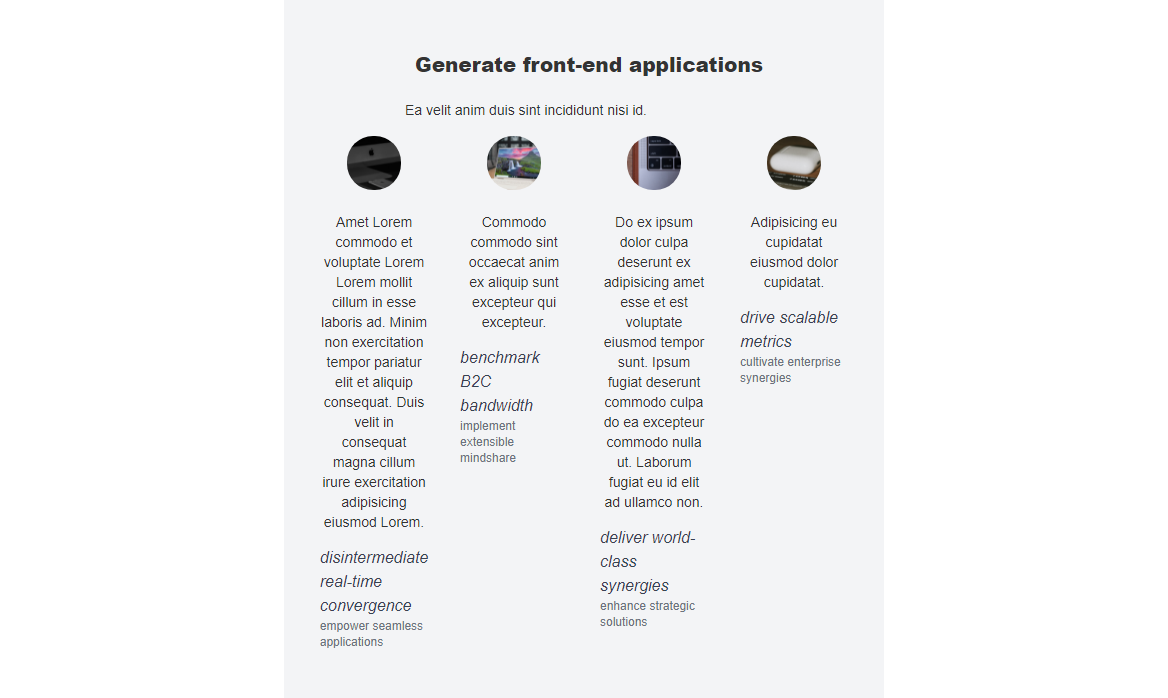
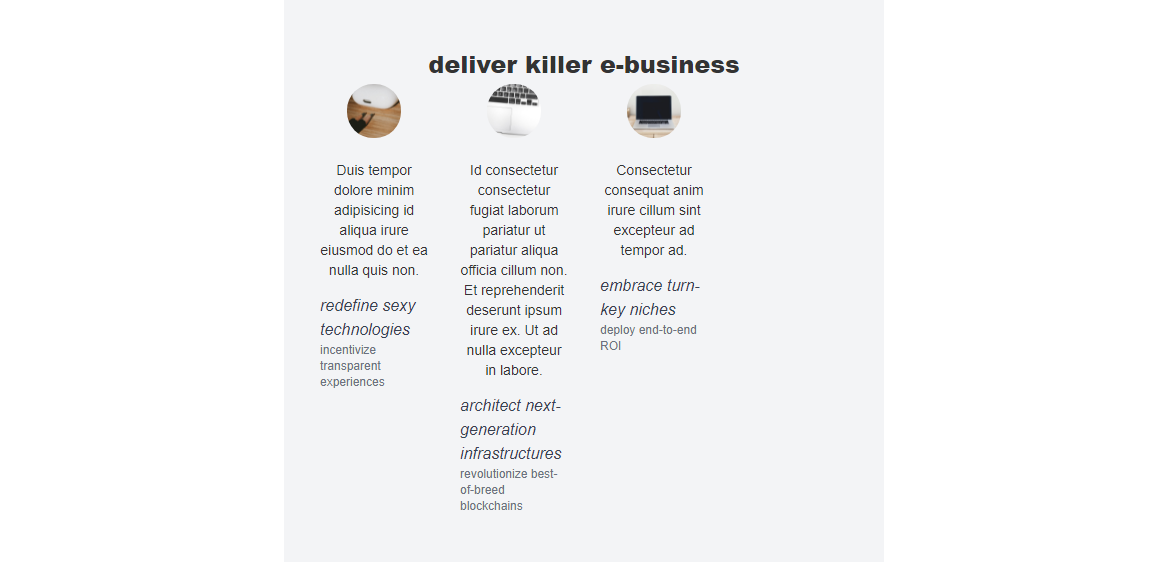
fixed bug with wrong headings

diff --git a/.slicemachine/assets/slices/SectionServices/index.stories.js b/.slicemachine/assets/slices/SectionServices/index.stories.js
@@ -5,5 +5,5 @@ export default {
 }
 
 
-export const _DefaultSlice = () => <MyComponent slice={{"variation":"default-slice","name":"Default slice","slice_type":"section_services","items":[{"title":"empower best-of-breed e-markets","extract":[{"type":"paragraph","text":"Tempor culpa consectetur adipisicing laborum proident excepteur exercitation culpa sit ad.","spans":[]}],"image":{"dimensions":{"width":900,"height":500},"alt":"Placeholder image","copyright":null,"url":"https://images.unsplash.com/photo-1571126770897-2d612d1f7b89?w=900&h=500&fit=crop"},"icon":{"link_type":"media","url":"https://source.unsplash.com/daily"},"buttonText":"matrix impactful supply-chains","Link":{"link_type":"Web","url":"https://slicemachine.dev"}},{"title":"recontextualize user-centric ROI","extract":[{"type":"paragraph","text":"Eiusmod excepteur eu incididunt dolore et elit fugiat tempor amet ut ex magna irure.","spans":[]}],"image":{"dimensions":{"width":900,"height":500},"alt":"Placeholder image","copyright":null,"url":"https://images.unsplash.com/photo-1587613865763-4b8b0d19e8ab?w=900&h=500&fit=crop"},"icon":{"link_type":"media","url":"https://source.unsplash.com/daily"},"buttonText":"integrate B2B networks","Link":{"link_type":"Web","url":"https://prismic.io"}},{"title":"deploy cutting-edge channels","extract":[{"type":"paragraph","text":"In eu eu aute ea cillum qui tempor elit sit id adipisicing sint id duis. Qui cupidatat ut dolor. Occaecat elit nostrud veniam.","spans":[]}],"image":{"dimensions":{"width":900,"height":500},"alt":"Placeholder image","copyright":null,"url":"https://images.unsplash.com/photo-1515378791036-0648a3ef77b2?w=900&h=500&fit=crop"},"icon":{"link_type":"media","url":"https://source.unsplash.com/daily"},"buttonText":"enhance sexy e-business","Link":{"link_type":"Web","url":"http://google.com"}},{"title":"engineer dynamic supply-chains","extract":[{"type":"paragraph","text":"Nulla amet culpa officia exercitation exercitation laborum non eu sit eiusmod. Occaecat laborum do dolor Lorem dolor do officia voluptate cupidatat exercitation.","spans":[]}],"image":{"dimensions":{"width":900,"height":500},"alt":"Placeholder image","copyright":null,"url":"https://images.unsplash.com/photo-1560457079-9a6532ccb118?w=900&h=500&fit=crop"},"icon":{"link_type":"media","url":"https://source.unsplash.com/daily"},"buttonText":"exploit cross-media networks","Link":{"link_type":"Web","url":"http://twitter.com"}},{"title":"architect cutting-edge paradigms","extract":[{"type":"paragraph","text":"Non in duis exercitation ipsum commodo nisi culpa amet. Id est ea mollit officia magna do non veniam incididunt nostrud. Anim irure quis ad anim aliqua aliqua pariatur.","spans":[]}],"image":{"dimensions":{"width":900,"height":500},"alt":"Placeholder image","copyright":null,"url":"https://images.unsplash.com/photo-1515378960530-7c0da6231fb1?w=900&h=500&fit=crop"},"icon":{"link_type":"media","url":"https://source.unsplash.com/daily"},"buttonText":"syndicate back-end convergence","Link":{"link_type":"Web","url":"https://prismic.io"}}],"primary":{"title":[{"type":"heading1","text":"Benchmark proactive content","spans":[]}],"description":[{"type":"paragraph","text":"Dolor esse voluptate ea do duis minim anim amet cupidatat labore ad.","spans":[]}]},"id":"_DefaultSlice"}} />
+export const _DefaultSlice = () => <MyComponent slice={{"variation":"default-slice","name":"Default slice","slice_type":"section_services","items":[{"title":"enable visionary models","extract":[{"type":"paragraph","text":"Anim anim in nulla est commodo eiusmod. Irure magna laboris nisi esse quis nulla id deserunt mollit.","spans":[]}],"image":{"dimensions":{"width":900,"height":500},"alt":"Placeholder image","copyright":null,"url":"https://images.unsplash.com/photo-1486312338219-ce68d2c6f44d?w=900&h=500&fit=crop"},"icon":{"link_type":"media","url":"https://source.unsplash.com/daily"},"buttonText":"recontextualize revolutionary platforms","Link":{"link_type":"Web","url":"https://slicemachine.dev"}},{"title":"monetize 24/7 platforms","extract":[{"type":"paragraph","text":"Officia fugiat proident duis dolore. Deserunt dolore sunt tempor velit qui.","spans":[]}],"image":{"dimensions":{"width":900,"height":500},"alt":"Placeholder image","copyright":null,"url":"https://images.unsplash.com/photo-1606248897732-2c5ffe759c04?w=900&h=500&fit=crop"},"icon":{"link_type":"media","url":"https://source.unsplash.com/daily"},"buttonText":"enable holistic eyeballs","Link":{"link_type":"Web","url":"https://slicemachine.dev"}}],"primary":{"title":"implement clicks-and-mortar eyeballs","subtitle":"unleash efficient initiatives"},"id":"_DefaultSlice"}} />
 _DefaultSlice.storyName = 'Default slice'

diff --git a/.slicemachine/assets/slices/SectionTestimonials/index.stories.js b/.slicemachine/assets/slices/SectionTestimonials/index.stories.js
@@ -5,5 +5,5 @@ export default {
 }
 
 
-export const _DefaultSlice = () => <MyComponent slice={{"variation":"default-slice","name":"Default slice","slice_type":"section_testimonials","items":[{"citation":[{"type":"paragraph","text":"Amet Lorem commodo et voluptate Lorem Lorem mollit cillum in esse laboris ad. Minim non exercitation tempor pariatur elit et aliquip consequat. Duis velit in consequat magna cillum irure exercitation adipisicing eiusmod Lorem.","spans":[]}],"author":"disintermediate real-time convergence","position":"empower seamless applications","image":{"dimensions":{"width":900,"height":500},"alt":"Placeholder image","copyright":null,"url":"https://images.unsplash.com/photo-1579931794097-0ad001e51edb?w=900&h=500&fit=crop"}},{"citation":[{"type":"paragraph","text":"Commodo commodo sint occaecat anim ex aliquip sunt excepteur qui excepteur.","spans":[]}],"author":"benchmark B2C bandwidth","position":"implement extensible mindshare","image":{"dimensions":{"width":900,"height":500},"alt":"Placeholder image","copyright":null,"url":"https://images.unsplash.com/photo-1593642532973-d31b6557fa68?w=900&h=500&fit=crop"}},{"citation":[{"type":"paragraph","text":"Do ex ipsum dolor culpa deserunt ex adipisicing amet esse et est voluptate eiusmod tempor sunt. Ipsum fugiat deserunt commodo culpa do ea excepteur commodo nulla ut. Laborum fugiat eu id elit ad ullamco non.","spans":[]}],"author":"deliver world-class synergies","position":"enhance strategic solutions","image":{"dimensions":{"width":900,"height":500},"alt":"Placeholder image","copyright":null,"url":"https://images.unsplash.com/photo-1607582278043-57198ac8da43?w=900&h=500&fit=crop"}},{"citation":[{"type":"paragraph","text":"Adipisicing eu cupidatat eiusmod dolor cupidatat.","spans":[]}],"author":"drive scalable metrics","position":"cultivate enterprise synergies","image":{"dimensions":{"width":900,"height":500},"alt":"Placeholder image","copyright":null,"url":"https://images.unsplash.com/photo-1589321578146-4c1ba445cc88?w=900&h=500&fit=crop"}}],"primary":{"title":[{"type":"heading1","text":"Generate front-end applications","spans":[]}],"description":[{"type":"paragraph","text":"Ea velit anim duis sint incididunt nisi id.","spans":[]}]},"id":"_DefaultSlice"}} />
+export const _DefaultSlice = () => <MyComponent slice={{"variation":"default-slice","name":"Default slice","slice_type":"section_testimonials","items":[{"citation":[{"type":"paragraph","text":"Duis tempor dolore minim adipisicing id aliqua irure eiusmod do et ea nulla quis non.","spans":[]}],"author":"redefine sexy technologies","position":"incentivize transparent experiences","image":{"dimensions":{"width":900,"height":500},"alt":"Placeholder image","copyright":null,"url":"https://images.unsplash.com/photo-1589321599763-d66926c29613?w=900&h=500&fit=crop"}},{"citation":[{"type":"paragraph","text":"Id consectetur consectetur fugiat laborum pariatur ut pariatur aliqua officia cillum non. Et reprehenderit deserunt ipsum irure ex. Ut ad nulla excepteur in labore.","spans":[]}],"author":"architect next-generation infrastructures","position":"revolutionize best-of-breed blockchains","image":{"dimensions":{"width":900,"height":500},"alt":"Placeholder image","copyright":null,"url":"https://images.unsplash.com/photo-1596195689404-24d8a8d1c6ea?w=900&h=500&fit=crop"}},{"citation":[{"type":"paragraph","text":"Consectetur consequat anim irure cillum sint excepteur ad tempor ad.","spans":[]}],"author":"embrace turn-key niches","position":"deploy end-to-end ROI","image":{"dimensions":{"width":900,"height":500},"alt":"Placeholder image","copyright":null,"url":"https://images.unsplash.com/photo-1496181133206-80ce9b88a853?w=900&h=500&fit=crop"}}],"primary":{"title":"deliver killer e-business","subtitle":"drive robust methodologies"},"id":"_DefaultSlice"}} />
 _DefaultSlice.storyName = 'Default slice'

diff --git a/.slicemachine/assets/slices/SectionProjects/index.stories.js b/.slicemachine/assets/slices/SectionProjects/index.stories.js
@@ -5,5 +5,5 @@ export default {
 }
 
 
-export const _DefaultSlice = () => <MyComponent slice={{"variation":"default-slice","name":"Default slice","slice_type":"section_projects","items":[{"project":{"link_type":"Web","url":"https://slicemachine.dev"}},{"project":{"link_type":"Web","url":"https://prismic.io"}},{"project":{"link_type":"Web","url":"http://twitter.com"}}],"primary":{"title":[{"type":"heading1","text":"Revolutionize dynamic supply-chains","spans":[]}],"description":[{"type":"paragraph","text":"Veniam eiusmod aute amet officia adipisicing cillum. Ipsum adipisicing tempor do sunt qui dolor labore irure.","spans":[]}]},"id":"_DefaultSlice"}} />
+export const _DefaultSlice = () => <MyComponent slice={{"variation":"default-slice","name":"Default slice","slice_type":"section_projects","items":[{"project":{"link_type":"Web","url":"http://google.com"}},{"project":{"link_type":"Web","url":"http://twitter.com"}},{"project":{"link_type":"Web","url":"http://google.com"}},{"project":{"link_type":"Web","url":"http://twitter.com"}},{"project":{"link_type":"Web","url":"https://prismic.io"}}],"primary":{"title":"envisioneer B2B synergies","subtitle":"drive B2C users"},"id":"_DefaultSlice"}} />
 _DefaultSlice.storyName = 'Default slice'

diff --git a/components/section-header.js b/components/section-header.js
@@ -1,19 +1,10 @@
 import React from 'react';
-import { RichText } from 'prismic-reactjs';
 
 const SectionHeader = ({ title, subtitle }) => {
   return (
     <header>
-      {title && (
-        <h2 className="text-2xl">
-          <RichText render={title} />
-        </h2>
-      )}
-      {subtitle && (
-        <h4 className="">
-          <RichText render={subtitle} />
-        </h4>
-      )}
+      {title && <h2 className="text-2xl">{title}</h2>}
+      {subtitle && <h4 className="">{subtitle}</h4>}
     </header>
   );
 };

diff --git a/slices/SectionServices/index.js b/slices/SectionServices/index.js
@@ -7,7 +7,7 @@ const SectionServices = ({ slice }) => {
     <section className="bg-gray-400">
       <div className="container flex flex-col items-center">
         <div>
-          <SectionHeader title={slice.primary.title} subtitle={slice.primary.description} />
+          <SectionHeader title={slice.primary.title} subtitle={slice.primary.subtitle} />
         </div>
         <div className="grid grid-cols-1 sm:grid-cols-2 md:grid-cols-3 lg:grid-cols-4 gap-8">
           {slice?.items?.map((service, i) => (
